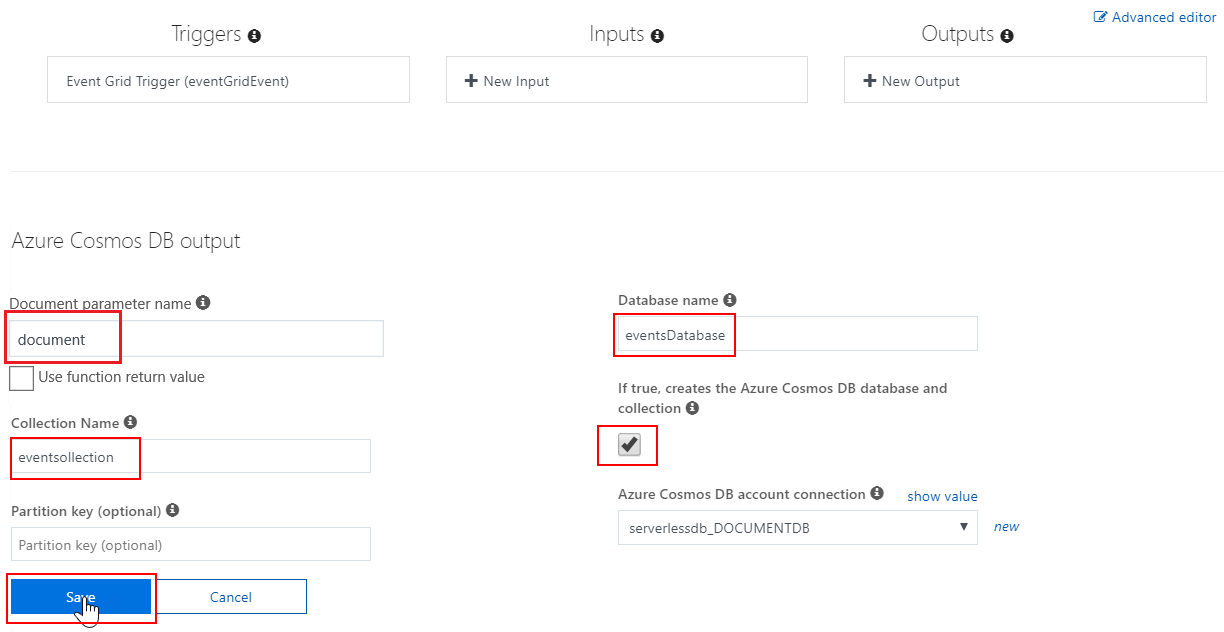
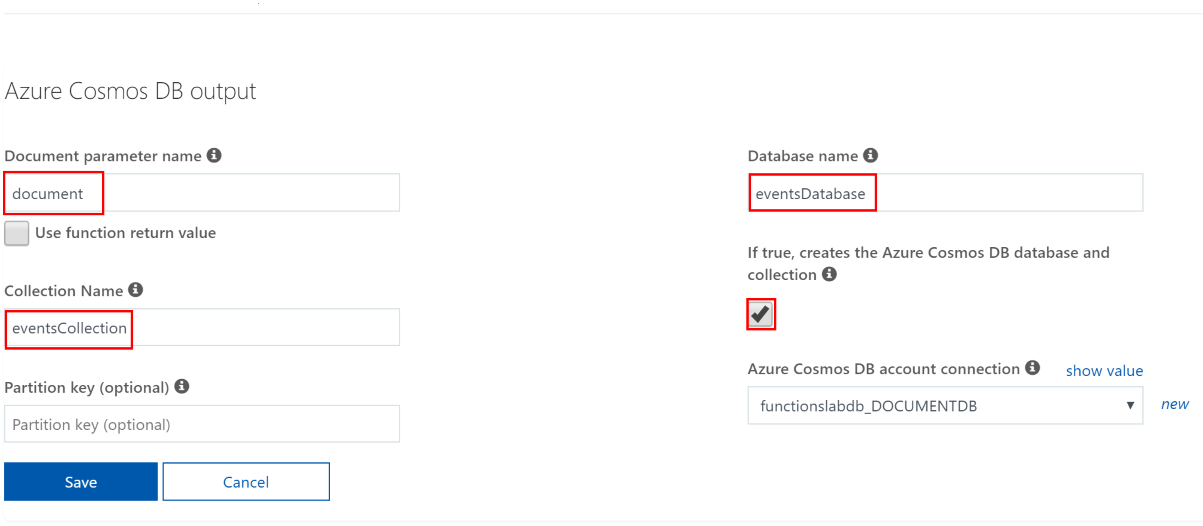
Minor verbage and screenshot update to event grid lab.

diff --git a/4-Functions_Lab/readme.md b/4-Functions_Lab/readme.md
@@ -295,7 +295,7 @@ Now that we have an event hub let's create an instance of CosmosDB where we can 
 
     ![CosmosDB output](images/function_eventgrid_cosmosdb_output.png "CosmosDB Output")
 
-1. Select the "Use function return value" checkbox. Enter a database name and collection name to use and then check the create database and collection check box then click the new button next to the Cosmos DB account connection. Then click "Save" and we are ready to start writing our code!
+1. Update the parameter, database and collection names to use. Select the option to create the database and collection. Finally, click "Save" and we are ready to start writing our code!
 
     ![CosmosDB output](images/function_eventgrid_cosmosdb_settings.png "CosmosDB Output")
 
